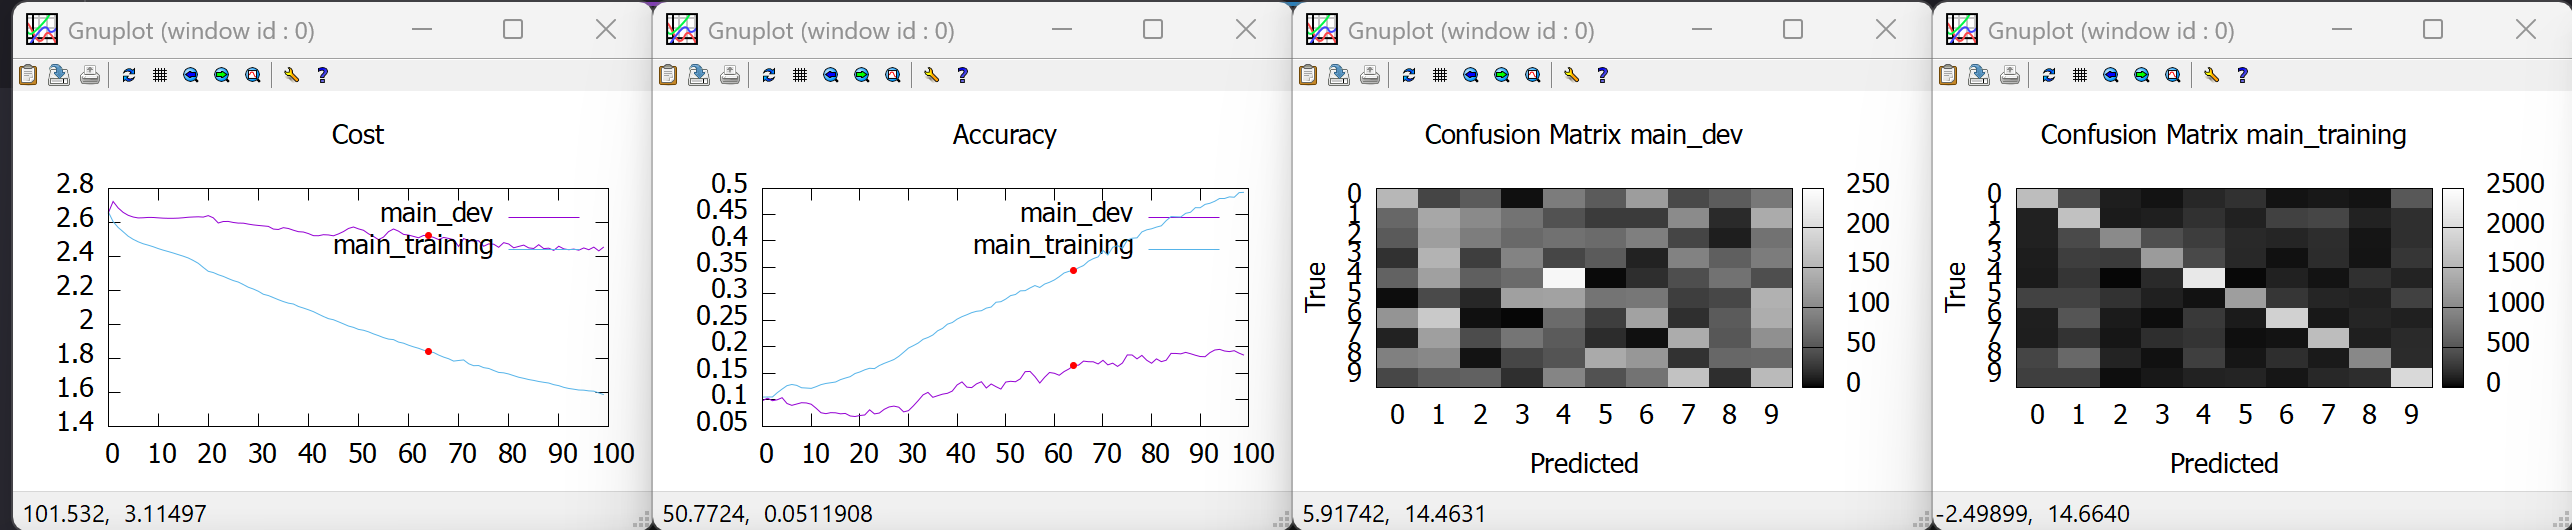
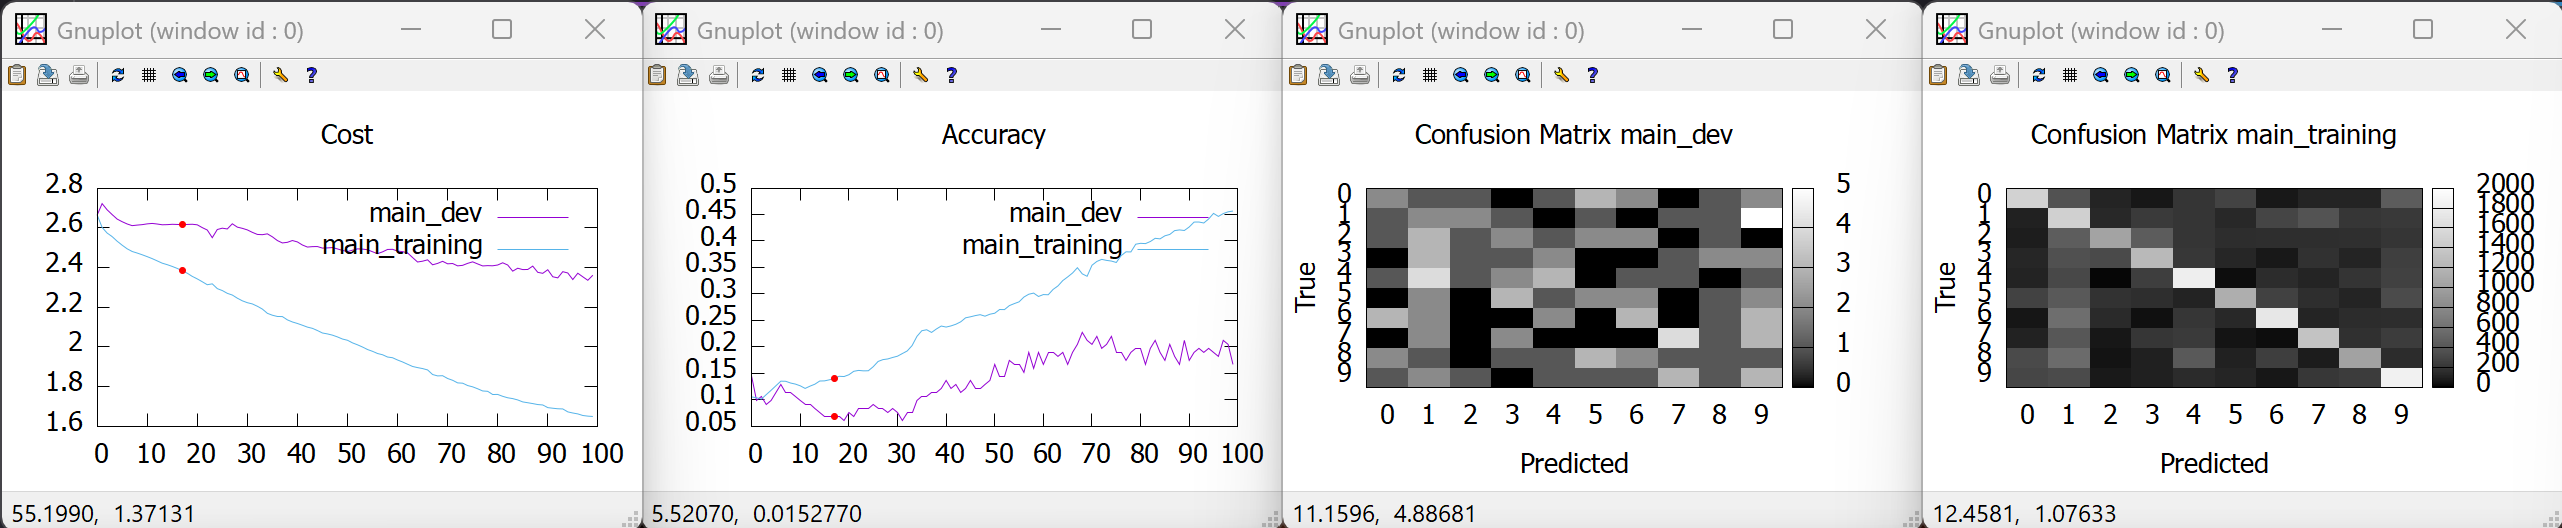
feat: add --display-samples option to display progress of minibatch elements during training
- Add documentation for new --display-samples CLI option, which enables visualizing input samples in progress graphs during training and evaluation.
- Correct track-layer examples to use L4_Dense_W instead of L3, and fix spacing inconsistencies.
- Update experiment [J] description with revised early stopping patience and costs, including notes on training startup phase.

diff --git a/lib/ruby_neural_nets/progress_tracker.rb b/lib/ruby_neural_nets/progress_tracker.rb
@@ -78,6 +78,9 @@ module RubyNeuralNets
             ]
           end
         end
+
+        # Initialize display samples if specified
+        create_graph("Samples #{experiment.exp_id}") if experiment.display_samples > 0
       end
     end
 
@@ -133,45 +136,93 @@ module RubyNeuralNets
           @experiments[experiment.exp_id][:display_units].each do |(param, row_indices)|
             tensor_size = param.shape[1]
             values = param.values
-            # Consider it to be RGB image if we can divide the number of input values by 3
             nbr_channels = tensor_size % 3 == 0 ? 3 : 1
             width_float = Math.sqrt(tensor_size / nbr_channels)
             width = width_float.floor == width_float ? width_float.floor : width_float.floor + 1
-            # Compute possible padding needed to consider it a square image
             padding = width * width - tensor_size / nbr_channels
-            param_img = nil
-            row_indices.each do |indices|
-              row_img = nil
-              indices.each do |idx_unit|
-                normalized_image = values[idx_unit, nil]
-                min_value = normalized_image.min
-                unit_img = Numo::UInt8[*(((normalized_image - min_value) / (normalized_image.max - min_value)) * 255).round].
-                  concatenate(Numo::UInt8.zeros(padding * nbr_channels)).
-                  reshape(width, width, nbr_channels)
-                row_img = row_img.nil? ? unit_img : row_img.concatenate(unit_img, axis: 1)
-              end
-            param_img =
-              if param_img.nil?
-                row_img
-              else
-                # Pad row_img with white pixels on the right to match param_img width
-                row_img = row_img.concatenate(Numo::UInt8.zeros(width, param_img.shape[1] - row_img.shape[1], nbr_channels) + 255, axis: 1) if row_img.shape[1] < param_img.shape[1]
-                param_img.concatenate(row_img)
-              end
+            bitmaps = []
+            row_indices.flatten.each do |idx_unit|
+              normalized_image = values[idx_unit, nil]
+              min_value = normalized_image.min
+              unit_img = Numo::UInt8[*(((normalized_image - min_value) / (normalized_image.max - min_value)) * 255).round].
+                concatenate(Numo::UInt8.zeros(padding * nbr_channels)).
+                reshape(width, width, nbr_channels)
+              bitmaps << unit_img
             end
-            # Duplicate all channels in param_img to make it RGB
-            param_img = param_img.concatenate(param_img, axis: 2).concatenate(param_img, axis: 2) if nbr_channels == 1
-            @graphs["#{param.name} #{experiment.exp_id}"].plot(
-              param_img.reverse(0),
-              with: 'rgbimage',
-              title: ''
-            )
+            plot_bitmaps(@graphs["#{param.name} #{experiment.exp_id}"], bitmaps)
           end
+        end
+
+        # Display samples
+        if experiment.display_samples > 0
+          image_stats = experiment.data_loader.image_stats
+          rows = image_stats[:rows]
+          cols = image_stats[:cols]
+          channels = image_stats[:channels]
+          # Detect the sample dimension based on minibatch_size
+          sample_dim = minibatch_x.shape.index(minibatch_size)
+          raise "Unable to determine sample dimension for minibatch_x shape #{minibatch_x.shape} and minibatch_size #{minibatch_size}" if sample_dim.nil?
+
+          slices = Array.new(minibatch_x.shape.size, nil)
+          plot_bitmaps(
+            @graphs["Samples #{experiment.exp_id}"],
+            [experiment.display_samples, minibatch_size].min.times.map do |idx_sample|
+              slices[sample_dim] = idx_sample
+              Numo::UInt8[*((minibatch_x[*slices].flatten * 255).round)].reshape(rows, cols, channels)
+            end
+          )
         end
       end
     end
 
     private
+
+    # Plot bitmaps on a given graph, stacking them horizontally and vertically
+    #
+    # Parameters:::
+    # * *gnuplot_graph* (Numo::Gnuplot): The graph to plot on
+    # * *bitmaps* (Array<Array<Array<Numo::UInt8>>>): Array of bitmaps, each bitmap is [rows, cols, channels]
+    def plot_bitmaps(gnuplot_graph, bitmaps)
+      # Group by rows
+      rows_per_group = Math.sqrt(bitmaps.size).ceil.to_i
+      max_width = 0
+      row_imgs = bitmaps.each_slice(rows_per_group).map do |row_bitmaps|
+        row_img = nil
+        row_bitmaps.each do |bitmap|
+          nbr_channels = bitmap.shape[2]
+          # Ensure RGB
+          bitmap_rgb = if nbr_channels == 1
+                         bitmap.concatenate(bitmap, axis: 2).concatenate(bitmap, axis: 2)
+                       else
+                         bitmap
+                       end
+          row_img = row_img.nil? ? bitmap_rgb : row_img.concatenate(bitmap_rgb, axis: 1)
+        end
+        max_width = [max_width, row_img.shape[1]].max
+        row_img
+      end
+
+      # Pad rows to max_width
+      height = row_imgs.first.shape[0]
+      channels = row_imgs.first.shape[2]
+
+      gnuplot_graph.plot(
+        row_imgs.
+          map do |row_img|
+            if row_img.shape[1] < max_width
+              padding = Numo::UInt8.zeros(height, max_width - row_img.shape[1], channels) + 255
+              row_img.concatenate(padding, axis: 1)
+            else
+              row_img
+            end
+          end.
+          # Concatenate vertically
+          reduce { |accum, row| accum.concatenate(row) }.
+          reverse(0),
+        with: 'rgbimage',
+        title: ''
+      )
+    end
 
     # Create a new graph with automatic positioning
     #

diff --git a/lib/ruby_neural_nets/options.rb b/lib/ruby_neural_nets/options.rb
@@ -243,6 +243,10 @@ module RubyNeuralNets
             [layer_name.to_sym, Integer(nbr_units_str)]
           end
         },
+        display_samples: {
+          desc: 'Number of samples to display in the progress graph.',
+          value: 0
+        },
         eval_dev: {
           desc: 'Should we also evaluate the model on the dev dataset?',
           value: true

diff --git a/lib/ruby_neural_nets/experiment.rb b/lib/ruby_neural_nets/experiment.rb
@@ -19,6 +19,7 @@ module RubyNeuralNets
       profiler
       training_mode
       display_units
+      display_samples
       dev_experiment
     ],
     keyword_init: true

diff --git a/README.md b/README.md
@@ -144,8 +144,15 @@ This runs with default settings:
 - **`--track-layer`**: Specify a layer name to be tracked for a given number of hidden units (string,integer, can be used multiple times)
   - Allows monitoring specific layer parameters during training
   - Format: `--track-layer layer_name,num_units`
-  - Example: `--track-layer L0_Dense_W,10 --track-layer L3_Dense_W,10`
+  - Example: `--track-layer L0_Dense_W,10 --track-layer L4_Dense_W,10`
   - Useful for visualizing parameter evolution in specific layers during training
+
+- **`--display-samples`**: Number of samples to display in the progress graph (integer, default: 0)
+  - Shows input samples from each minibatch as grid visualizations using GnuPlot
+  - Format: `--display-samples num_samples`
+  - Example: `--display-samples 4` displays a grid of 4 input samples per progress update
+  - Useful for monitoring what the model is training on and verifying data loading
+  - Applies to both training and development set evaluations when `--eval-dev` is enabled
 
 - **`--dropout-rate`**: Dropout rate for regularization in NLayers model (float, default: 0.0)
   - Controls the fraction of units to drop during training to prevent overfitting
@@ -433,7 +440,7 @@ bundle exec ruby ./bin/run --dataset=numbers --data-loader=Numo --accuracy=Class
 * [I] Changing leaky ReLu with ReLU from [C] got very similar results than [C]. Variance seems to be a bit bigger, and accuracy a bit higher.
 
 ![I](docs/n_layers_numbers/i.png)
-* When adding visualizations of the hidden layer units (for example using `--track-layer L0_Dense_W,10 --track-layer L3_Dense_W,10` from [C]), we see during training that only the first layer evolves a lot, the remaining dense ones stay very close to their initial values. This also confirms the tendency that adding more layers does not make the network learn faster, however adding more units on the first layer increases accuracy while creating variance.
+* When adding visualizations of the hidden layer units (for example using `--track-layer=L0_Dense_W,10 --track-layer=L4_Dense_W,10` from [C]), we see during training that only the first layer evolves a lot, the remaining dense ones stay very close to their initial values. This also confirms the tendency that adding more layers does not make the network learn faster, however adding more units on the first layer increases accuracy while creating variance.
 
 ![Parameters Visualization](docs/n_layers_numbers/parameters_visualization.png)
 
@@ -441,7 +448,7 @@ bundle exec ruby ./bin/run --dataset=numbers --data-loader=Numo --accuracy=Class
 
 * When trying various regularization techniques from [C] (`--nbr-clones=3 --rot-angle=30 --dropout-rate=0.02`), we observe that the model is always overfitting. This gives the intuition that the model is too complex for the problem at hand.
 * The Parameter-to-sample ratio rule can help estimating the desired complexity of the model. nbr_parameters / nbr_training_samples should be between 0.1 and 10. With the experiment [C], we have this ratio = (36300 * 100 + 100 + 100 + 100 * 10 + 10 + 10) / 593 = 6123. Clearly the model is far too complex.
-* On experiment [J] we reduce the complexity of the model with 1 layer of 10 units and we downsample the images from 110 x 110 down to 32 x 32. We use data augmentation with 52 clones, still in 1 minibatch. This brings the ratio down to 1.0. Parameters used are `--nbr-epochs=100 --max-minibatch-size=50000 --layers=10 --nbr-clones=52 --resize=32,32 --noise-intensity=0.1`. Resulting accuracies at epoch 100 are 49% for training and 18% for dev. We see that now more epochs are needed to train properly, but the early stopping epoch is around 65 instead of 40 without data augmentation.
+* On experiment [J] we reduce the complexity of the model with 1 layer of 10 units and we downsample the images from 110 x 110 down to 32 x 32. We use data augmentation with 52 clones, still in 1 minibatch. This brings the ratio down to 1.0. Parameters used are `--nbr-epochs=100 --early-stopping-patience=10 --max-minibatch-size=50000 --layers=10 --nbr-clones=52 --resize=32,32 --noise-intensity=0.1`. Resulting accuracies at epoch 100 are 46% for training and 17% for dev. We see that now more epochs are needed to train properly, and the early stopping epoch is around 17 instead of 40 without data augmentation. Looking at the cost graph it seems the early epoch patience should be increased, as cost continues to decrease after epoch 17. It looks like the startup phase of the training is visible: cost starts to decrease and accuracy increase steadily only after epoch 30.
 
 ![J](docs/n_layers_numbers/j.png)
 * Experiment [K] adds a lot of data regularization with dropout and weight decay: `--nbr-epochs=100 --max-minibatch-size=50000 --layers=10 --nbr-clones=52 --resize=32,32 --noise-intensity=0.1 --dropout-rate=0.1 --weight-decay=0.1 --early-stopping-patience=20`
